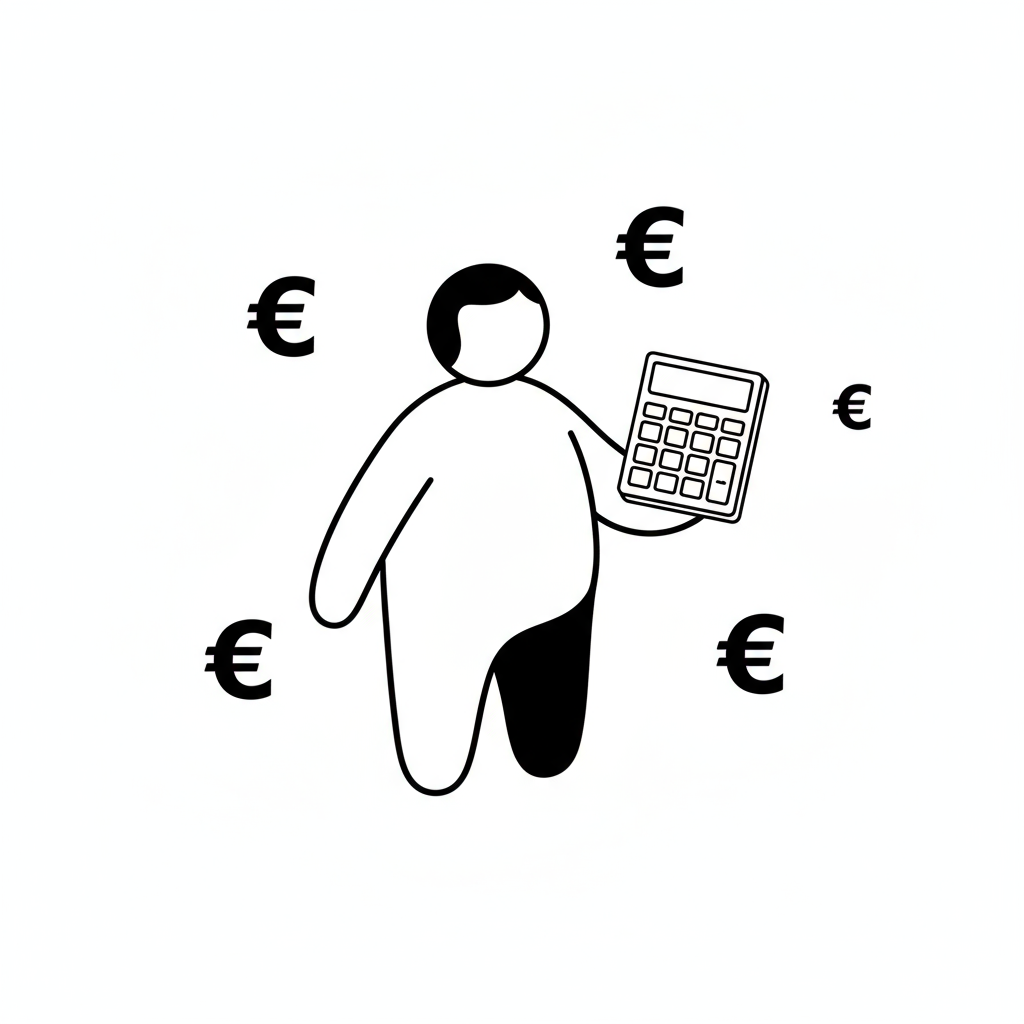
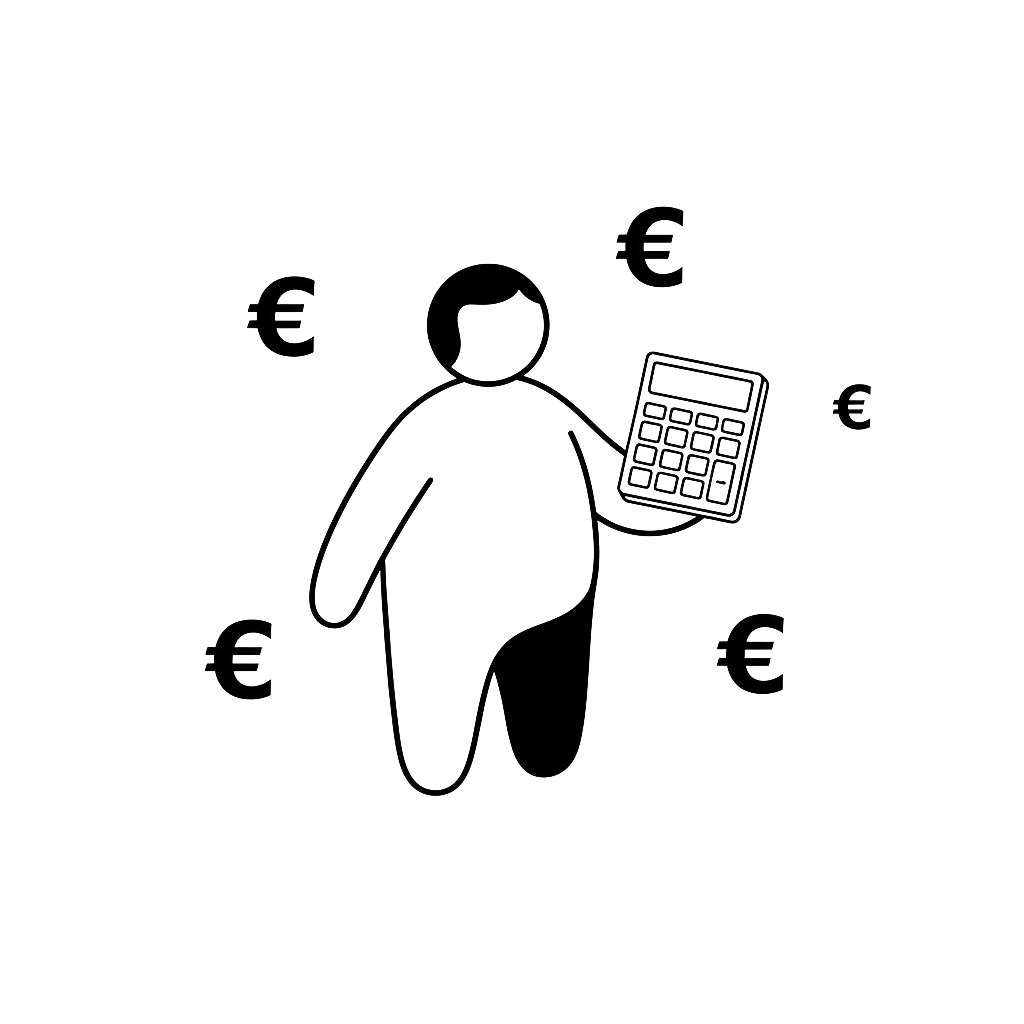
Checkpoint: Alle 9 thema illustraties vervangen door transparante versies voor betere integratie met de lichtgrijze achtergronden op de website.

Changed region(s): [[0.5938, 0.3438, 0.75, 0.5], [0.8125, 0.375, 0.8438, 0.4062]]

diff --git a/todo.md b/todo.md
@@ -115,3 +115,6 @@
 - [x] Thema detailpagina: illustratie rechts naast titel
 - [x] Thema detailpagina: 4x2 grid onderaan met illustraties en titels
 - [x] Kopieer wonen-v4 naar public folder
+
+## Illustraties Update
+- [x] Vervang illustraties met transparante achtergrond versies
